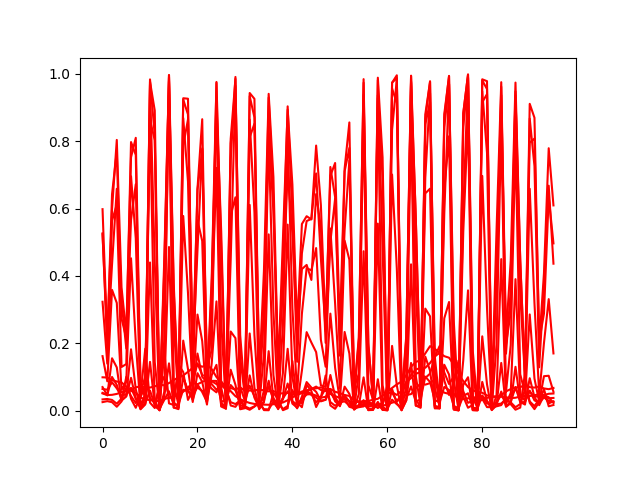
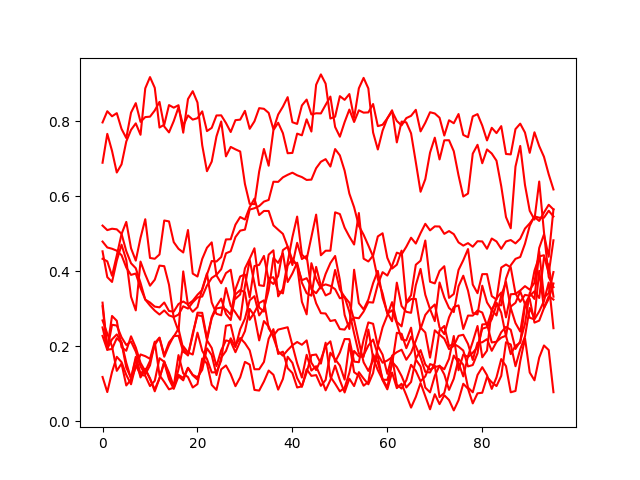
transpose conv with res blocks

diff --git a/scripts/gan.py b/scripts/gan.py
@@ -3,12 +3,11 @@ import torch.nn as nn
 import torch.nn.functional as F
 
 class ResidualBlock(nn.Module):
-    def __init__(self, series, channels):
+    def __init__(self):
         super(ResidualBlock, self).__init__()
-        self.series = series
-        self.conv_1 = nn.Conv2d(channels, channels, kernel_size=(series, 5), padding='same')
-        self.conv_2 = nn.Conv2d(channels, channels, kernel_size=(series, 5), padding='same')
-        self.batch_norm = nn.BatchNorm2d(channels)
+        self.conv_1 = nn.Conv2d(1, 3, kernel_size=(9, 5), padding='same')
+        self.conv_2 = nn.Conv2d(3, 1, kernel_size=(9, 5), padding='same')
+        self.batch_norm = nn.BatchNorm2d(1)
 
     def forward(self, x):
         x_ = x
@@ -19,35 +18,66 @@ class ResidualBlock(nn.Module):
         return x
 
 class Generator(nn.Module):
-    def __init__(self, series):
+    def __init__(self, z_dim=100):
         super(Generator, self).__init__()
-        self.series = series
-        self.conv1 = nn.Conv2d(1, 4, kernel_size=(series, 5), padding='same')
-        self.conv2 = nn.Conv2d(4, 8, kernel_size=(series, 5), padding='same')
-        self.conv3 = nn.Conv2d(8, 4, kernel_size=(series, 5), padding='same')
-        self.conv4 = nn.Conv2d(4, 1, kernel_size=(series, 5), padding='same')
+        self.z_dim = z_dim # z_dim x 1 x 1
+        self.conv1 = nn.Sequential(
+            nn.ConvTranspose2d(z_dim, 8, kernel_size=(1, 12)),
+            nn.BatchNorm2d(8),
+            nn.ReLU(True)
+            ) # 8 x 1 x 12
+        self.conv2 = nn.Sequential(
+            nn.ConvTranspose2d(8, 16, kernel_size=(1, 12), stride=(1, 3)),
+            nn.BatchNorm2d(16),
+            nn.ReLU(True)
+            ) # 16 x 1 x 45
+        self.conv3 = nn.Sequential(
+            nn.ConvTranspose2d(16, 32, kernel_size=(1, 12), stride=(1, 3)),
+            nn.BatchNorm2d(32),
+            nn.ReLU(True)
+            ) # 32 x 1 x 144
+        self.conv4 = nn.Sequential(
+            nn.ConvTranspose2d(32, 16, kernel_size=(3, 1), stride=(3, 1)),
+            nn.BatchNorm2d(16),
+            nn.ReLU(True)
+            ) # 16 x 3 x 144
+        self.conv5 = nn.Sequential(
+            nn.ConvTranspose2d(16, 8, kernel_size=(3, 1), stride=(3, 1)),
+            nn.BatchNorm2d(8),
+            nn.ReLU(True)
+            ) # 8 x 9 x 144
+        self.conv6 = nn.Sequential(
+            nn.ConvTranspose2d(8, 1, kernel_size=(1, 3), stride=(1, 1)),
+            nn.BatchNorm2d(1),
+            nn.Sigmoid()
+            ) # 1 x 9 x 146
+        self.residual_blocks = nn.Sequential(*[ResidualBlock() for _ in range(5)])
 
     def forward(self, x):
-        x = F.relu(self.conv1(x))
-        x = F.relu(self.conv2(x))
-        x = F.relu(self.conv3(x))
-        x = F.sigmoid(self.conv4(x))
-        return x[:,:,:,48:-48]
+        x = self.conv1(x)
+        x = self.conv2(x)
+        x = self.conv3(x)
+        x = self.conv4(x)
+        x = self.conv5(x)
+        x = self.conv6(x)
+        return x
 
 class Discriminator(nn.Module):
-    def __init__(self, series):
+    def __init__(self):
         super(Discriminator, self).__init__()
-        self.series = series
-        self.pool = nn.MaxPool2d((1, 4), stride=(1, 4))
-        self.conv1 = nn.Conv2d(1, 4, kernel_size=(series, 5), padding='same')
-        self.conv2 = nn.Conv2d(4, 8, kernel_size=(series, 5), padding='same')
-        self.fc1 = nn.Linear(8*6*series, 64)
-        self.fc2 = nn.Linear(64, 1)
+        self.pool1 = nn.MaxPool2d((1, 2), stride=(1, 2))
+        self.pool2 = nn.MaxPool2d((1, 4), stride=(1, 4))
+        self.conv1 = nn.Conv2d(1, 8, kernel_size=(9, 5), padding='same')
+        self.conv2 = nn.Conv2d(8, 16, kernel_size=(9, 5), padding='same')
+        self.conv3 = nn.Conv2d(16, 32, kernel_size=(9, 5), padding='same')
+        self.fc1 = nn.Linear(32*6*9, 256)
+        self.fc2 = nn.Linear(256, 1)
 
     def forward(self, x):
-        x = self.pool(F.relu(self.conv1(x)))
-        x = self.pool(F.relu(self.conv2(x)))
-        x = x.view(-1, 8*6*self.series)
+        x = self.pool1(F.relu(self.conv1(x)))
+        x = self.pool1(F.relu(self.conv2(x)))
+        x = self.pool2(F.relu(self.conv3(x)))
+        x = x.view(-1, 32*6*9)
         x = F.relu(self.fc1(x))
         x = F.sigmoid(self.fc2(x))
         return x

diff --git a/scripts/train_gan.py b/scripts/train_gan.py
@@ -8,12 +8,13 @@ import matplotlib.pyplot as plt
 from utils import auto_corr
 from gan import Generator, Discriminator
 
-SERIES = 9
+
 BATCH_SIZE = 256
 MINIBATCH_SIZE = 32
-SUB_EPOCHS = [(10, 10)] * 10
+SUB_EPOCHS = [(3, 3)] * 50
 LEARNING_RATE_G = 1e-5
 LEARNING_RATE_D = 1e-5
+NOISE_DIM = 100
 
 device = torch.device('cuda' if torch.cuda.is_available() else 'cpu')
 
@@ -30,10 +31,10 @@ def load_data():
 def train_discriminator(optimizer, model, criterion, X):
     optimizer.zero_grad()
 
-    indices = np.random.choice(X.shape[0], MINIBATCH_SIZE * SERIES, replace=False)
-    real_data = X[indices].reshape(-1, 1, SERIES, 96).to(device)
+    indices = np.random.choice(X.shape[0], MINIBATCH_SIZE * 9, replace=False)
+    real_data = X[indices].reshape(-1, 1, 9, 96).to(device)
     real_data = real_data + 0.01 * torch.randn_like(real_data, device=device)
-    fake_data = G(torch.randn(MINIBATCH_SIZE, 1, SERIES, 2*96, device=device))
+    fake_data = G(torch.randn(MINIBATCH_SIZE, NOISE_DIM, 1, 1, device=device))[:,:,:,25:-25]
 
     D_real = model(real_data)
     D_real_loss = criterion(D_real, torch.ones_like(D_real))
@@ -49,14 +50,14 @@ def train_discriminator(optimizer, model, criterion, X):
 def train_generator(optimizer, discriminator, generator, criterion, auto_corrs):
     optimizer.zero_grad()
 
-    fake_data = generator(torch.randn(MINIBATCH_SIZE, 1, SERIES, 2*96, device=device))
+    fake_data = generator(torch.randn(MINIBATCH_SIZE, NOISE_DIM, 1, 1, device=device))[:,:,:,25:-25]
     auto_corrs_fake = [auto_corr(fake_data, i + 1).mean() for i in range(len(auto_corrs))]
     G_stat_loss = sum(torch.abs(auto_corrs_fake[i] - auto_corrs[i]) for i in range(len(auto_corrs)))
 
     output = discriminator(fake_data)
     G_disc_loss = criterion(output, torch.ones_like(output))
 
-    G_loss = G_disc_loss + G_stat_loss
+    G_loss = G_disc_loss + 0.1 * G_stat_loss
     G_loss.backward()
     optimizer.step()
     return G_loss, auto_corrs_fake
@@ -91,8 +92,8 @@ def train(n_sub_epochs, num_epochs, X):
 if __name__ == '__main__':
 
     X = load_data()
-    G = Generator(SERIES).to(device)
-    D = Discriminator(SERIES).to(device)
+    G = Generator(NOISE_DIM).to(device)
+    D = Discriminator().to(device)
 
     criterion = nn.BCELoss()
     optimizer_G = optim.Adam(G.parameters(), lr=LEARNING_RATE_G)
@@ -106,14 +107,14 @@ if __name__ == '__main__':
     torch.save(G.state_dict(), '../models/final_generator.pth')
 
     best_G.eval()
-    fake_data = best_G(torch.randn(2, 1, SERIES, 2*96, device=device)).reshape(-1, 96).cpu()
+    fake_data = best_G(torch.randn(2, NOISE_DIM, 1, 1, device=device))[:,:,:,25:-25].reshape(-1, 96).cpu()
     for i in range(12):
         plt.plot(fake_data[i].detach().numpy(), color='red')
         plt.plot(X[i, 0].detach().numpy(), color='blue')
     plt.savefig('../images/best_generator.png')
 
     G.eval()
-    fake_data = G(torch.randn(2, 1, SERIES, 2*96, device=device)).reshape(-1, 96).cpu()
+    fake_data = G(torch.randn(2, NOISE_DIM, 1, 1, device=device))[:,:,:,25:-25].reshape(-1, 96).cpu()
     for i in range(12):
         plt.plot(fake_data[i].detach().numpy(), color='red')
         plt.plot(X[i, 0].detach().numpy(), color='blue')
